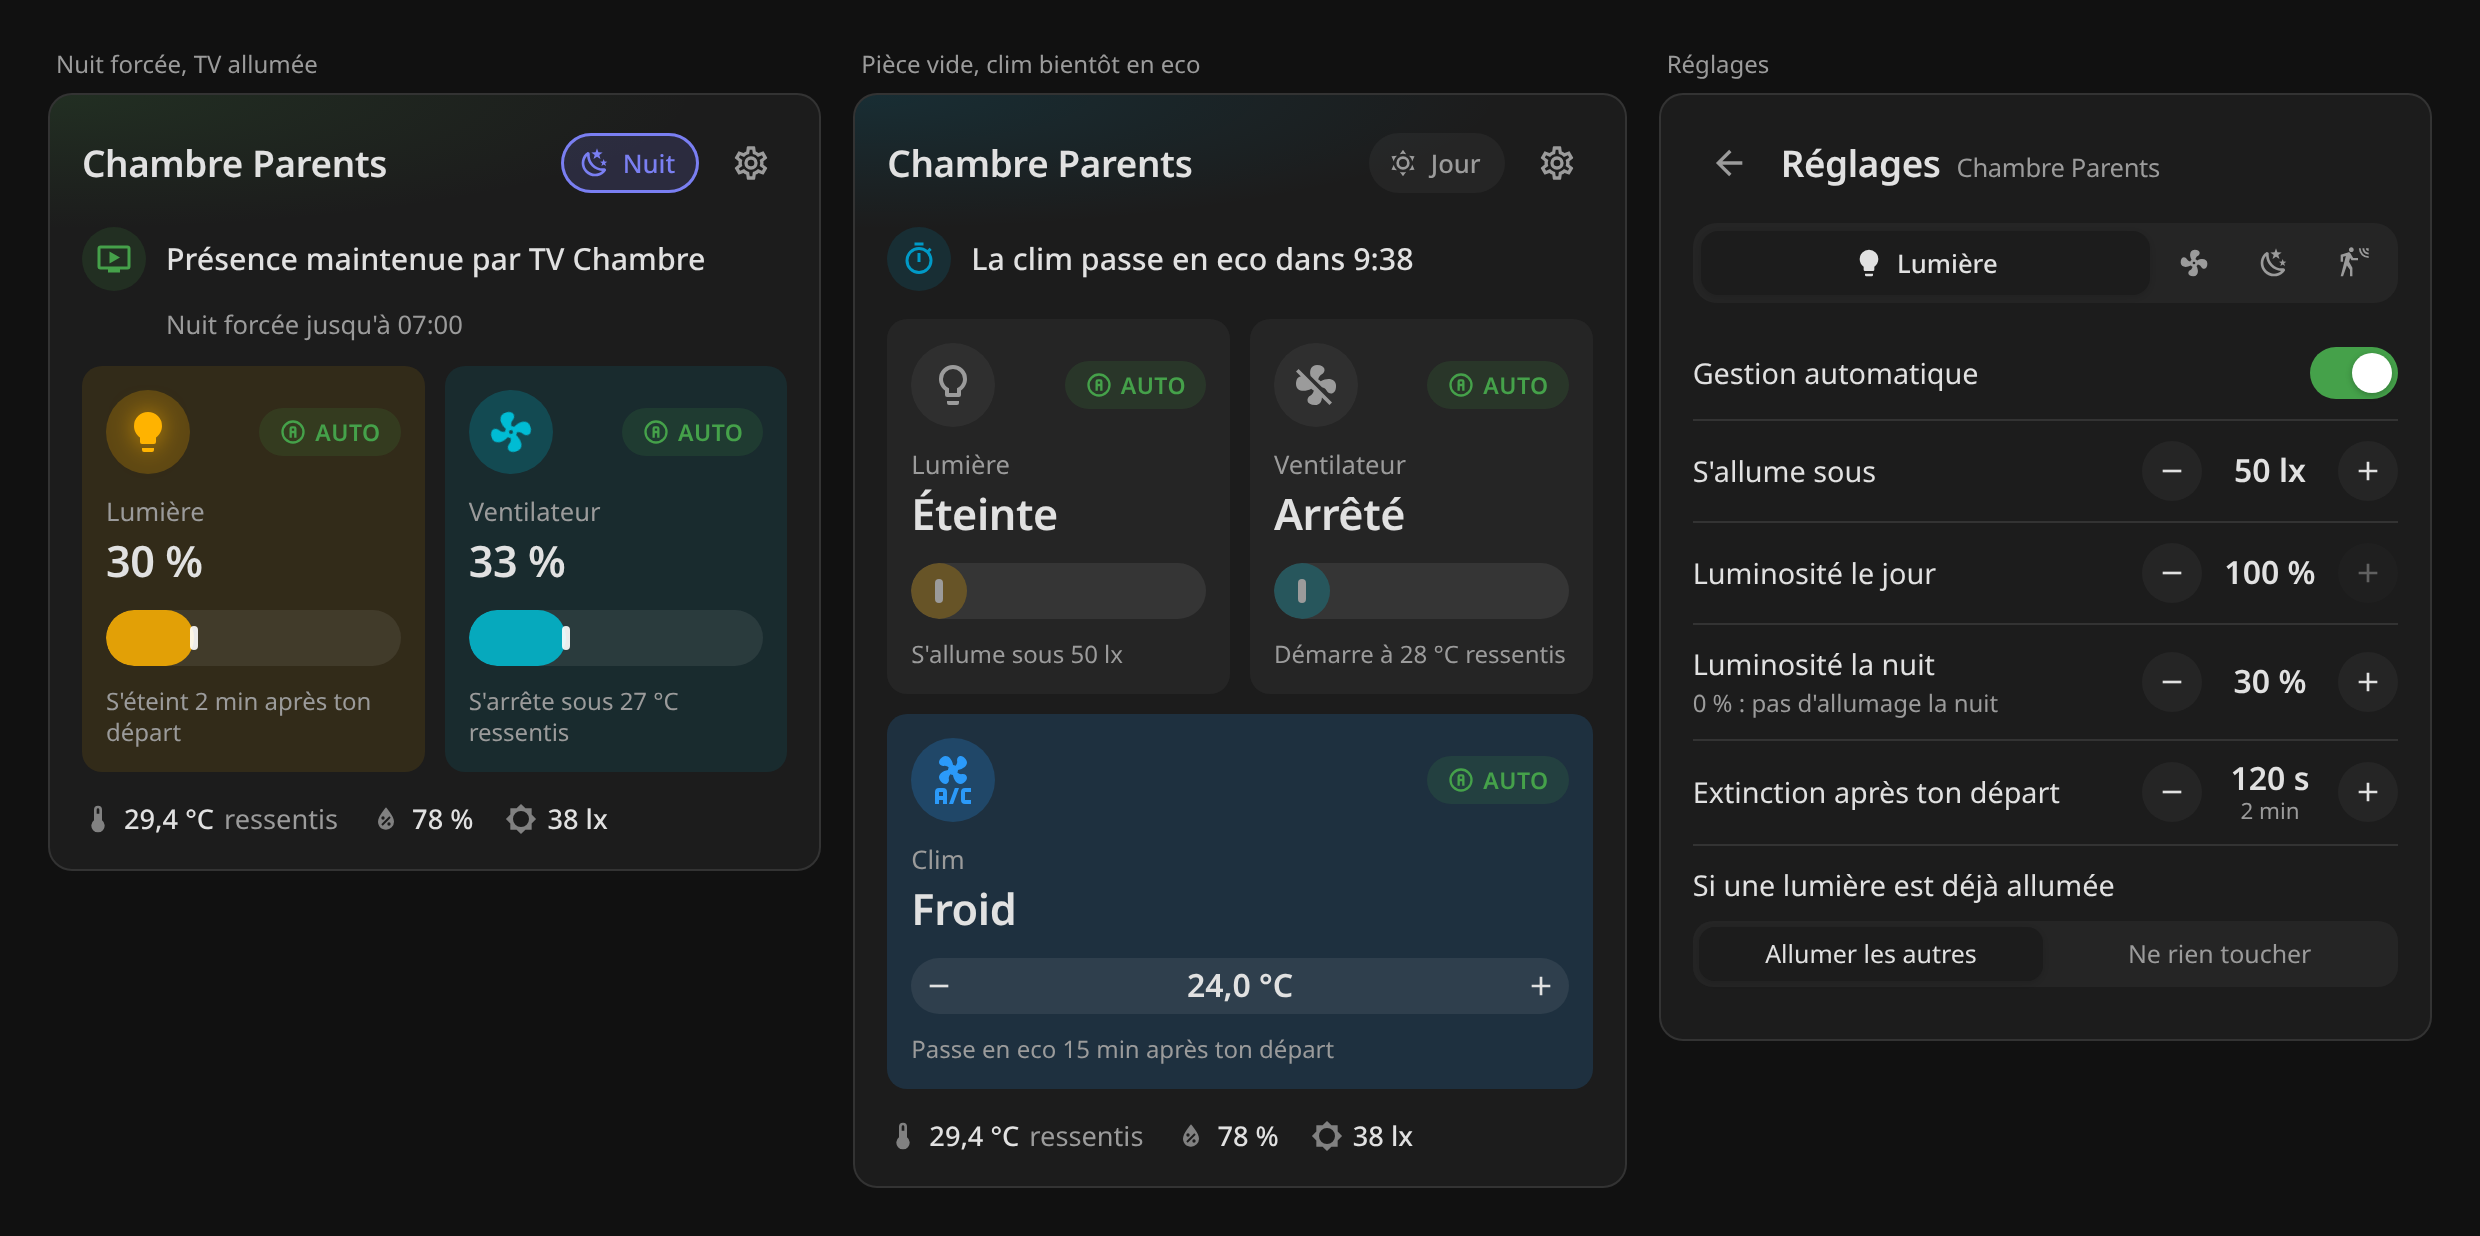
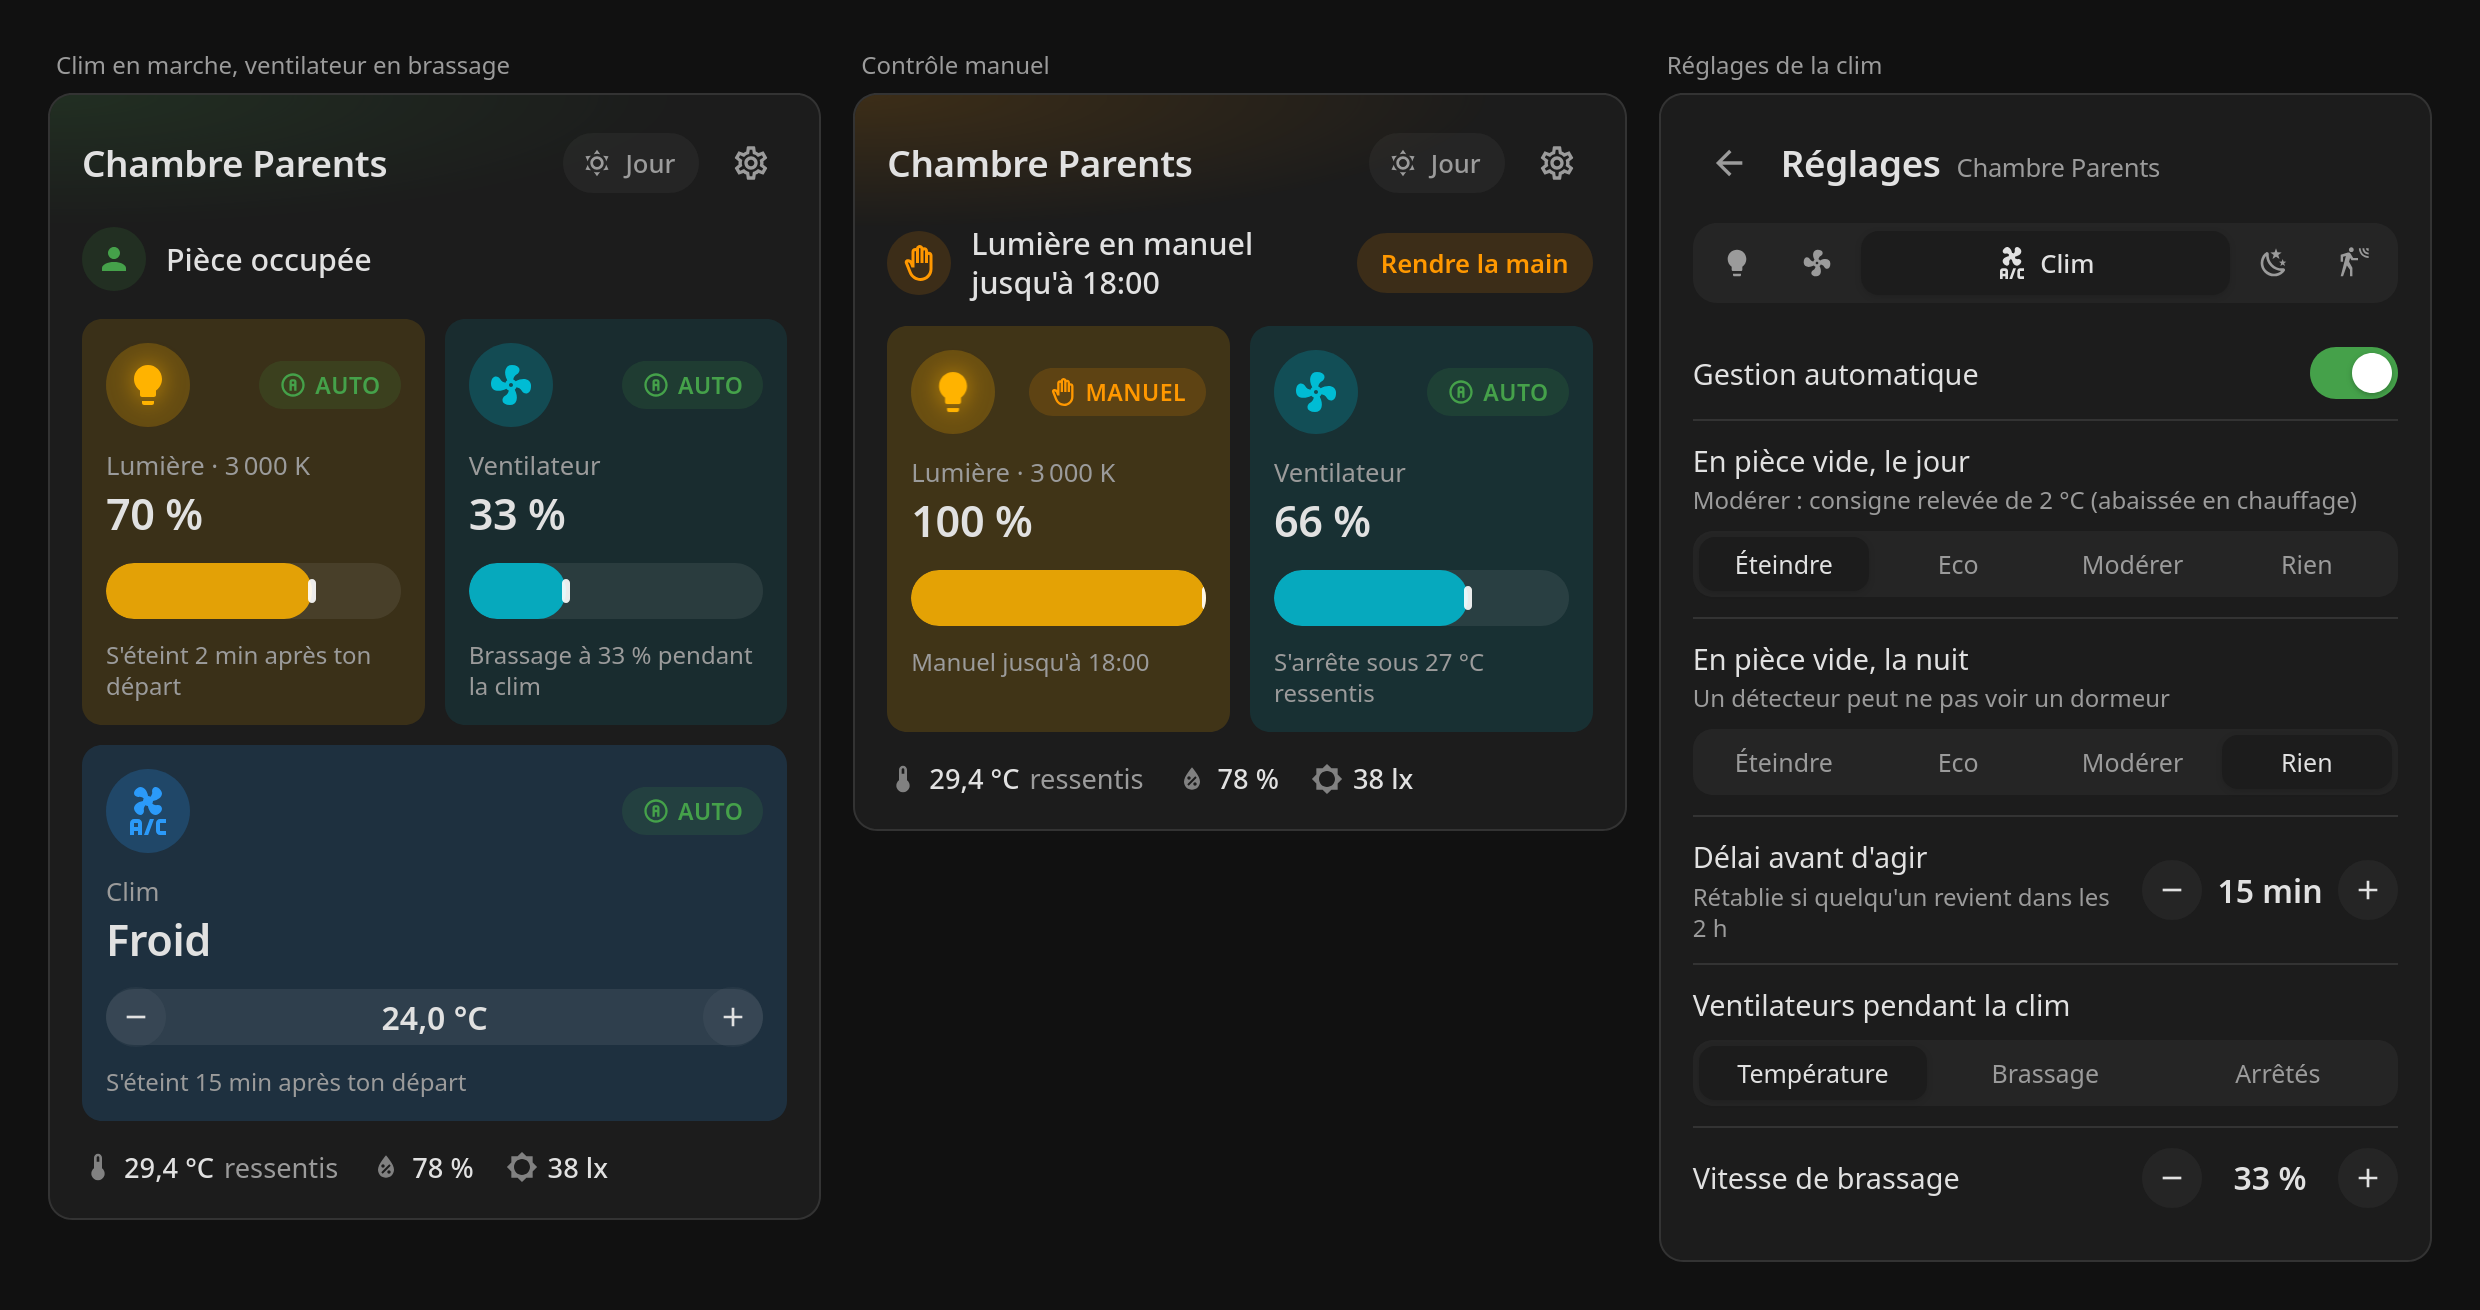
v0.7.1 : valeur des réglages sans fond, teinte dans la démo et les captures

diff --git a/demo/index.html b/demo/index.html
@@ -85,16 +85,21 @@
     date.setHours(h, 0, 0, 0);
     return date.toISOString();
   };
+  // Lampe allumée en blanc : la teinte s'affiche après le titre du panneau
+  const lamp = (brightness, kelvin = 3000) => ({
+    state: "on",
+    attributes: { brightness, supported_color_modes: ["color_temp"], color_mode: "color_temp", color_temp_kelvin: kelvin },
+  });
   const SCENES = {
-    occupied: { label: "Pièce occupée, jour", hass: makeHass() },
+    occupied: { label: "Pièce occupée, jour", hass: makeHass({ states: { "light.chambre": lamp(179) } }) },
     manual: {
       label: "Contrôle manuel",
       hass: makeHass({ room: { lights_override_until: at(30 * 60) },
-        states: { "light.chambre": { state: "on", attributes: { brightness: 255, supported_color_modes: ["color_temp"] } } } }),
+        states: { "light.chambre": lamp(255) } }),
     },
     vacating: (() => {
       const hass = makeHass({ room: { occupied: false, lights_warning: true, lights_off_at: at(11), fans_off_at: at(160) },
-        states: { "light.chambre": { state: "on", attributes: { brightness: 51, supported_color_modes: ["color_temp"] } } } });
+        states: { "light.chambre": lamp(51) } });
       hass.states[ENTITIES.room_state].state = "vacant";
       return { label: "Avertissement avant extinction", hass };
     })(),
@@ -106,7 +111,7 @@
           [ENTITIES.forced_night]: { state: "on", attributes: { until: tomorrowAt(7) } },
           "binary_sensor.fp2_chambre": { state: "off", attributes: {} },
           "media_player.tv_chambre": { state: "playing", attributes: { friendly_name: "TV Chambre" } },
-          "light.chambre": { state: "on", attributes: { brightness: 77, supported_color_modes: ["color_temp"] } },
+          "light.chambre": lamp(77, 2200),
           "fan.chambre": { state: "on", attributes: { percentage: 33, percentage_step: 33 } },
         },
       }),
@@ -127,7 +132,7 @@
     climate: {
       label: "Clim en marche, ventilateur en brassage",
       hass: makeHass({ climate: true, room: { fans_with_climate: "mix" },
-        states: { "fan.chambre": { state: "on", attributes: { percentage: 33, percentage_step: 33 } } } }),
+        states: { "light.chambre": lamp(179), "fan.chambre": { state: "on", attributes: { percentage: 33, percentage_step: 33 } } } }),
     },
     away: (() => {
       const hass = makeHass({ climate: true,

diff --git a/dist/lumina-card.js b/dist/lumina-card.js
@@ -1,4 +1,4 @@
-/*! Lumina Card 0.7.0 — https://github.com/phabrys/lumina-card — MIT
+/*! Lumina Card 0.7.1 — https://github.com/phabrys/lumina-card — MIT
  * Icônes : Material Design Icons (Apache 2.0). Fichier généré, ne pas modifier :
  * les sources sont dans src/. */
 // --- icons.ts ---
@@ -1637,7 +1637,8 @@ svg { width: 24px; height: 24px; fill: currentColor; display: block; flex: none;
   gap: 2px;
   flex: none;
 }
-.stepper button {
+/* Boutons − / + ; la valeur entre les deux est aussi un bouton, sans fond */
+.stepper button:not(.stepper-value) {
   display: grid;
   place-items: center;
   width: 30px;
@@ -1650,6 +1651,7 @@ svg { width: 24px; height: 24px; fill: currentColor; display: block; flex: none;
 .stepper button svg { width: 16px; height: 16px; }
 .stepper-value {
   min-width: 64px;
+  border-radius: 6px;
   text-align: center;
   display: flex;
   flex-direction: column;
@@ -2655,5 +2657,5 @@ if (typeof customElements !== "undefined") {
             documentationURL: "https://github.com/phabrys/lumina-card",
         });
     }
-    console.info(`%c LUMINA-CARD %c ${"0.7.0"} `, "color:#fff;background:#f2a93b;font-weight:700;border-radius:3px 0 0 3px", "color:#f2a93b;background:#222;border-radius:0 3px 3px 0");
+    console.info(`%c LUMINA-CARD %c ${"0.7.1"} `, "color:#fff;background:#f2a93b;font-weight:700;border-radius:3px 0 0 3px", "color:#f2a93b;background:#222;border-radius:0 3px 3px 0");
 }

diff --git a/src/styles.ts b/src/styles.ts
@@ -431,7 +431,8 @@ svg { width: 24px; height: 24px; fill: currentColor; display: block; flex: none;
   gap: 2px;
   flex: none;
 }
-.stepper button {
+/* Boutons − / + ; la valeur entre les deux est aussi un bouton, sans fond */
+.stepper button:not(.stepper-value) {
   display: grid;
   place-items: center;
   width: 30px;
@@ -444,6 +445,7 @@ svg { width: 24px; height: 24px; fill: currentColor; display: block; flex: none;
 .stepper button svg { width: 16px; height: 16px; }
 .stepper-value {
   min-width: 64px;
+  border-radius: 6px;
   text-align: center;
   display: flex;
   flex-direction: column;

diff --git a/CHANGELOG.md b/CHANGELOG.md
@@ -1,5 +1,10 @@
 # Changelog
 
+## 0.7.1 — 2026-10-26
+
+- Réglages : la valeur entre les boutons − et + n'a plus le fond gris arrondi des boutons, apparu en 0.6.1 quand elle est devenue un bouton pour le clavier.
+- Démo et captures du README : les lampes allumées ont une teinte (« Lumière · 3 000 K »).
+
 ## 0.7.0 — 2026-10-25
 
 - Option `compact` : chaque panneau devient une pastille (icône, valeur, consigne de la clim), avec une main pour rendre la main en contrôle manuel. Pour un tableau de bord qui regroupe toutes les pièces.
